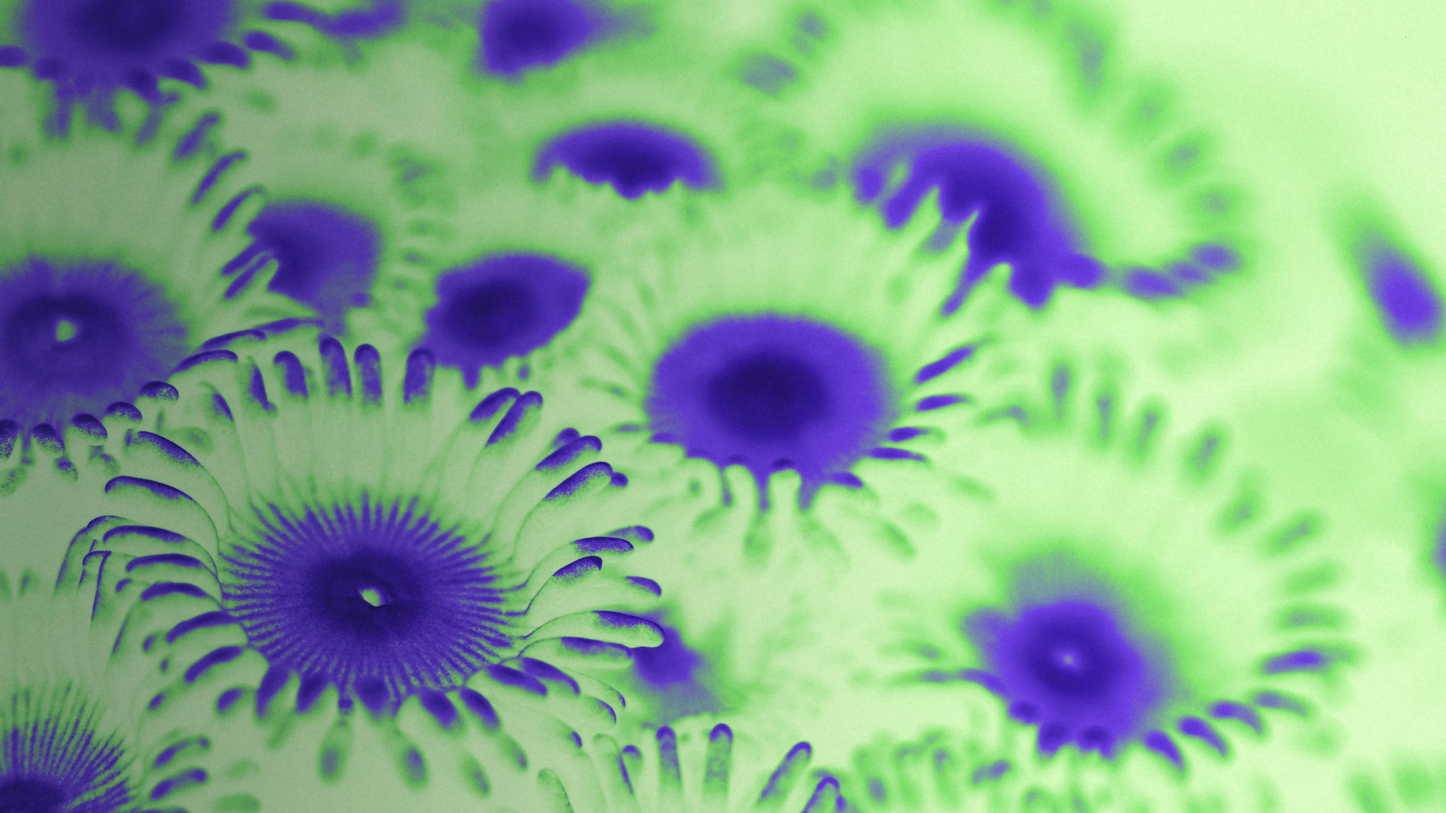
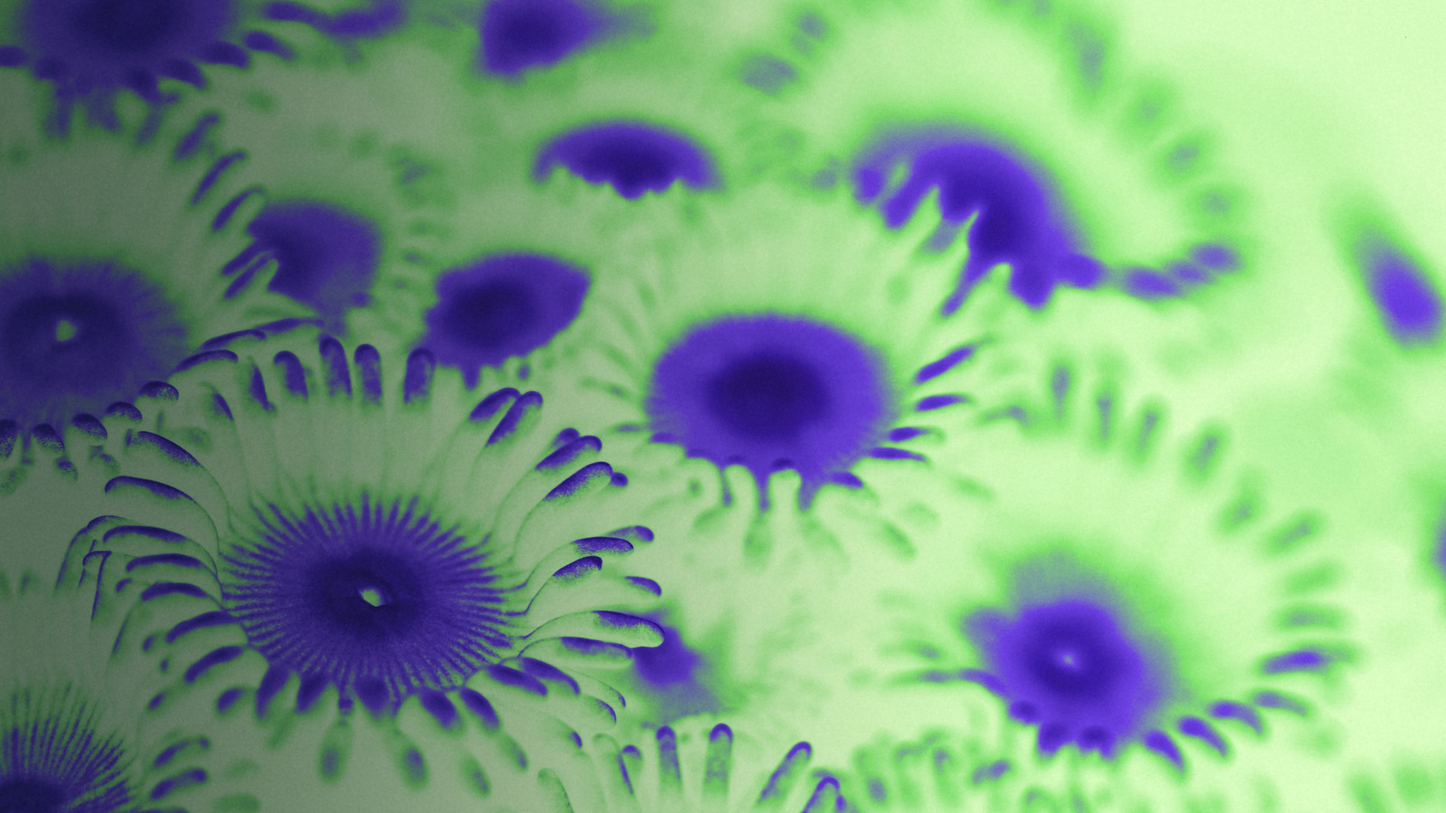
Positions band: the split picture and role list are back (owner's pick); small round 4 fixes
- Positions: the fish / magenta split band and its list of roles, as before round 1
- Who we are header: a deeper wash on the left so the title and intro read
- The Flower Garden Banks source sits right under its numbers
- "20-minute" never breaks at its hyphen; Featured rows line up on phones;
  shorter Donate inset caption; no line starts or ends with "/" in a role title

Claude-Session: https://claude.ai/code/session_01HPvjW6KZMfatoVEK835rkc

diff --git a/src/data/positions.ts b/src/data/positions.ts
@@ -17,7 +17,7 @@ export const positions = [
     skills: 'C/C++, Arduino or ESP32',
   },
   {
-    title: 'Computer Vision\u00a0/ ML Engineer', // no-break space: the line never starts with "/"
+    title: 'Computer Vision\u00a0/\u00a0ML Engineer', // no-break spaces: no line starts or ends with "/"
     whatYoullDo: 'Help the robot spot and track marine animals in video',
     skills: 'Python, PyTorch, OpenCV',
   },

diff --git a/README.md b/README.md
@@ -142,7 +142,7 @@ The three ways to help on Donate sit on plain colour blocks (orange, lime, viole
 |---|---|---|
 | `echo`: a few big words stacked down the middle, each with a small caption (Colossal's "Lost but not gone forever") | Home, FIND / FOLLOW / FILM | `story-find.jpg` (spiral coral, NOAA, magenta and green) |
 | `stats`: a title and big numbers on dots (Colossal's "5.5 million square miles") | Who we are, the team in numbers | `story-team.jpg` (sun rays under the surface, Pexels, orange to violet) |
-| `split`: very big type across the picture, with an optional list and the button (Colossal's "Bringing back the woolly mammoth") | Positions, "06 open roles" | `story-join.jpg` (a school of fish, Pexels, lime on violet) |
+| `split`: big type across a picture in two halves, with a list and the button on the right (Colossal's "Bringing back the woolly mammoth") | Positions, "06 open roles" | `story-join.jpg` (a school of fish, Pexels, lime on violet; a magenta and orange blur) |
 | `statement`: a big line and two short columns (Colossal's "Mission / Goal") | Donate, "Affordable ocean exploration"; Work with us, "20 minutes" | `story-donate.jpg` (a ray, NOAA, orange to violet), `story-talk.jpg` (a feather star, NOAA, teal and pink) |
 | `art`: a title and numbers on the left, a piece of artwork shown whole on the right in a thin lime frame (no type over it, no colour edits) | The Problem, "Most of it lies in the twilight zone" | `story-fgb.jpg` (the bank's seafloor relief from NOAA's poster, violet and lime), with the poster drawing `sections/fgb-poster-art.jpg` on top |
 
